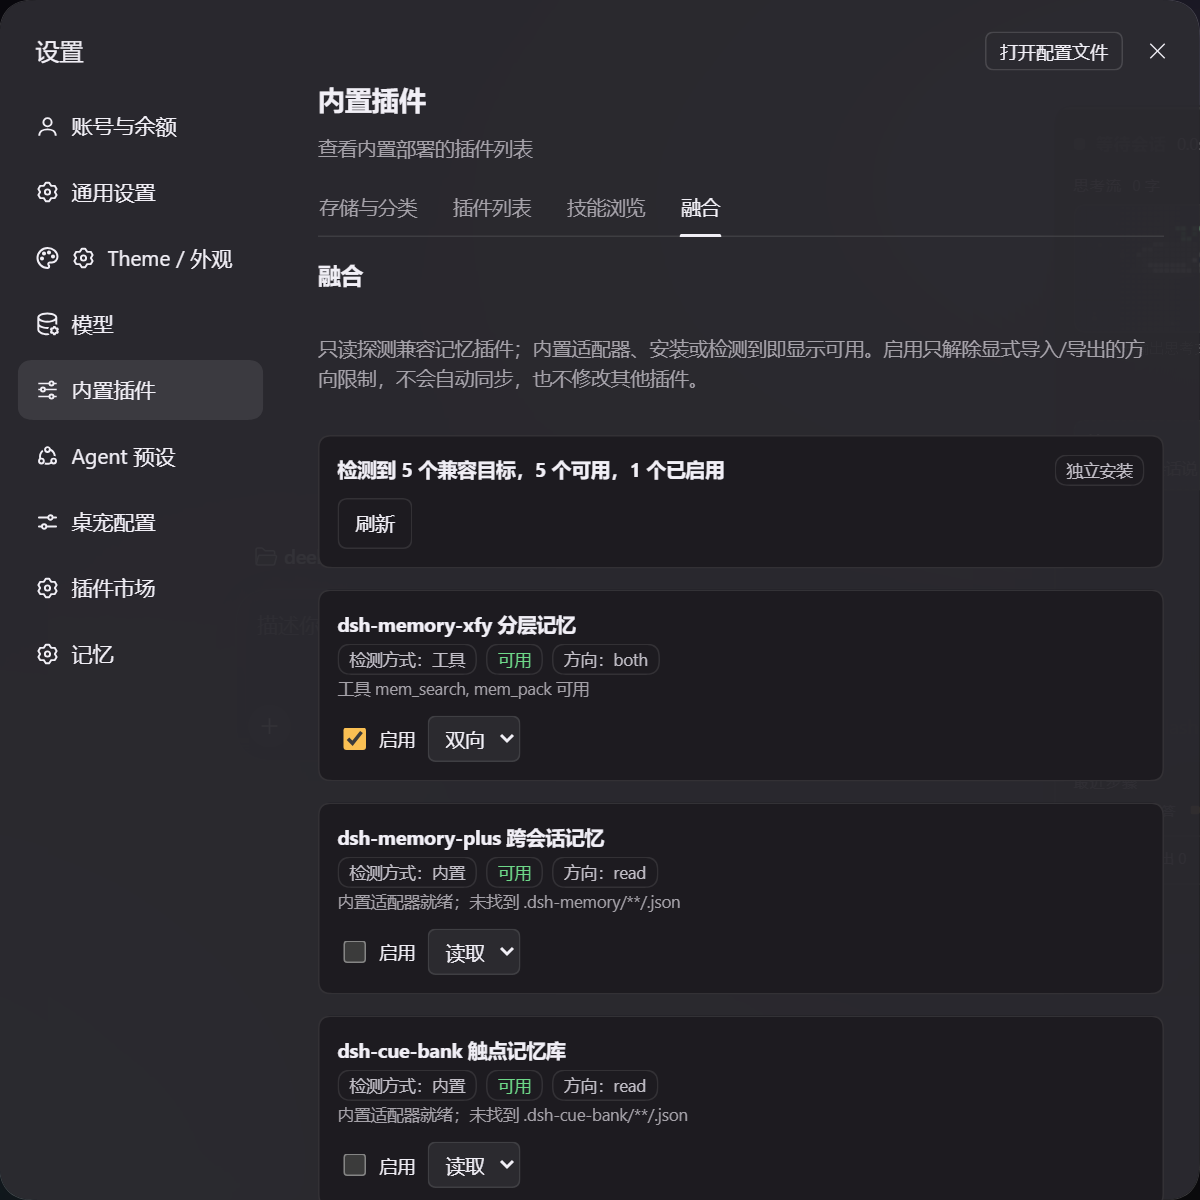
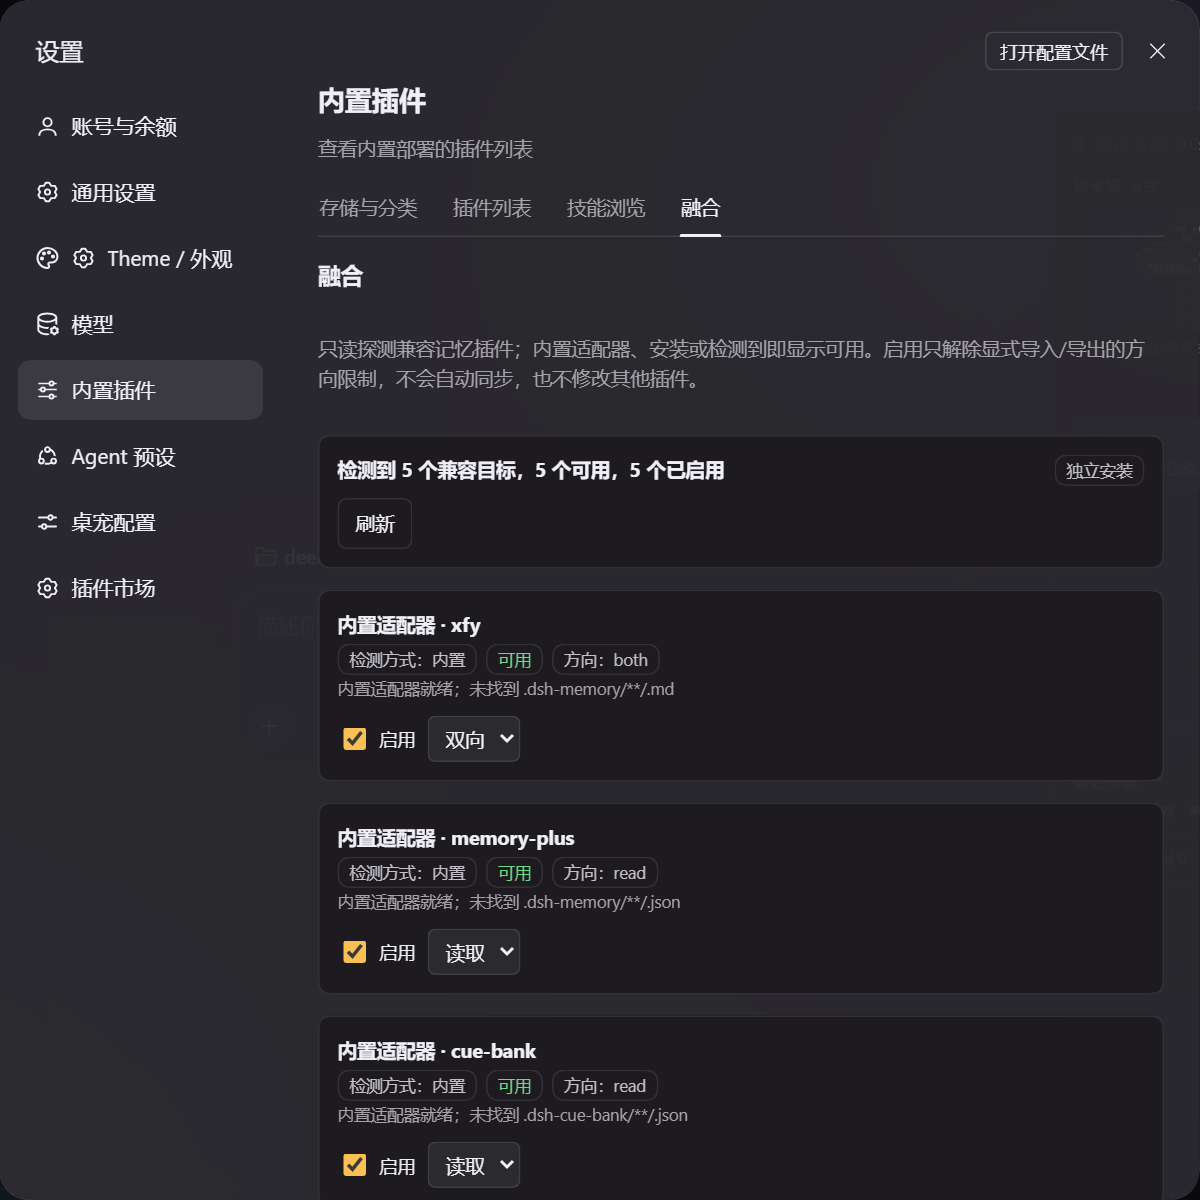
refactor(fusion): use built-in adapters and remove xfy panel
All five compatibility targets now use the built-in adapter labels and do not require the external dsh-memory-xfy bundle. Remove the broken xfy sidebar panel, keep enable/direction control, refresh screenshots, and verify all tests.

diff --git a/lib/fusion.js b/lib/fusion.js
@@ -31,7 +31,7 @@ import { loadMemories, writeMemory } from './store.js';
 export const COMPATIBILITY_REGISTRY = Object.freeze([
   Object.freeze({
     key: 'dsh-memory-xfy',
-    label: 'dsh-memory-xfy 分层记忆',
+    label: '内置适配器 · xfy',
     type: 'memory',
     serviceName: null,
     filePattern: '**/.dsh-memory/**/*.md',
@@ -44,7 +44,7 @@ export const COMPATIBILITY_REGISTRY = Object.freeze([
   }),
   Object.freeze({
     key: 'dsh-memory-plus',
-    label: 'dsh-memory-plus 跨会话记忆',
+    label: '内置适配器 · memory-plus',
     type: 'memory',
     serviceName: null,
     filePattern: '**/.dsh-memory/**/*.json',
@@ -57,7 +57,7 @@ export const COMPATIBILITY_REGISTRY = Object.freeze([
   }),
   Object.freeze({
     key: 'dsh-cue-bank',
-    label: 'dsh-cue-bank 触点记忆库',
+    label: '内置适配器 · cue-bank',
     type: 'memory',
     serviceName: null,
     filePattern: '**/.dsh-cue-bank/**/*.json',
@@ -70,7 +70,7 @@ export const COMPATIBILITY_REGISTRY = Object.freeze([
   }),
   Object.freeze({
     key: 'dsh-task-memory',
-    label: 'dsh-task-memory 任务隔离记忆',
+    label: '内置适配器 · task-memory',
     type: 'memory',
     serviceName: null,
     filePattern: '**/.dsh-task-memory/**/*.md',
@@ -83,7 +83,7 @@ export const COMPATIBILITY_REGISTRY = Object.freeze([
   }),
   Object.freeze({
     key: 'dsh-graphmemory',
-    label: 'dsh-graphmemory 知识图谱记忆',
+    label: '内置适配器 · graphmemory',
     type: 'memory',
     serviceName: null,
     filePattern: '**/.dsh-graphmemory/**/*.json',

diff --git a/docs/USAGE.md b/docs/USAGE.md
@@ -305,7 +305,7 @@ candidate ──verify(valid) +0.15──► verified
 
 | 字段 | 说明 |
 |---|---|
-| 插件名 | 如 `dsh-memory-xfy 分层记忆` |
+| 插件名 | 如 `内置适配器 · xfy` |
 | 检测方式 | 文件 / 服务 / 工具 |
 | 可用状态 | 可用（绿色）/ 不可用（黄色）；内置适配器也显示“可用” |
 | 方向 | 读取 / 写入 / 双向 |
@@ -324,9 +324,11 @@ candidate ──verify(valid) +0.15──► verified
 
 探测优先级：服务 → 已知工具名 → workspace 下的公开文件 → **已安装的包** → **内置适配器**。兼容包已经安装在当前 profile，或该目标带有内置适配器时，即使还没有产生数据，也会显示为可用；你仍需通过“启用”决定是否允许导入/导出。
 
-其中四个文件桥接目标（`dsh-memory-plus`、`dsh-cue-bank`、`dsh-task-memory`、`dsh-graphmemory`）**自带内置适配器**：没有安装外部插件时显示“检测方式：内置”，不会变红。内置适配器只代表格式桥接代码已就绪，**不代替外部插件的数据**；导入仍需要 workspace 中存在匹配文件。
+其中四个文件桥接目标（`dsh-memory-plus`、`dsh-cue-bank`、`dsh-task-memory`、`dsh-graphmemory`）**自带内置适配器**：没有安装外部插件时显示“检测方式：内置”，不会变红。`dsh-memory-xfy` 也保留内置文件适配器作为兜底。内置适配器只代表格式桥接代码已就绪，**不代替外部插件的数据**；导入仍需要 workspace 中存在匹配文件。
 
-#### 方式一：安装并启用兼容插件
+因此，默认情况下**不需要安装任何外部插件**，五个目标都会显示可用；你只需要决定是否启用。只有在需要某插件的原生引擎/数据时，才安装真实插件。
+
+#### 方式一：安装并启用真实插件（可选）
 
 1. 用 `plugin_manager` 安装目标插件，例如 `dsh-memory-xfy`。
 2. 确认它已启用，并且它注册的工具在当前 Agent 中可见。
@@ -334,7 +336,7 @@ candidate ──verify(valid) +0.15──► verified
 
 如果该插件注册了织忆认识的工具名，会显示“检测方式：工具”；如果它在 workspace 写入了记忆文件，会显示“检测方式：文件”。
 
-例如 `dsh-memory-xfy` 注册的是 `mem_search` / `mem_pack`。安装它之后，融合页会显示“检测方式：工具 / 可用”。注意：这表示工具探测成功，不等于它的原生存储文件已经被映射；`dsh-memory-xfy` 的实际数据默认在 `~/.dsh` 下，而织忆的文件桥接目前读取 workspace 的 `.dsh-memory/**/*.md`。要导入其原生数据，需要进一步适配它的存储布局。
+例如安装真实的 `dsh-memory-xfy` 后，融合页会显示“检测方式：工具”。注意：这表示工具探测成功，不等于它的原生存储文件已经被映射；`dsh-memory-xfy` 的实际数据默认在 `~/.dsh` 下，而织忆的文件桥接读取 workspace 的 `.dsh-memory/**/*.md`。要导入其原生数据，需要进一步适配它的存储布局。没有安装真实插件时，内置适配器仍然可用。
 
 不要同时安装多个 memory 类插件：它们都可能注册 `memory_search` 等工具名，容易冲突。一次只装一个、验证通过后再考虑下一个。
 
@@ -414,7 +416,7 @@ type: judgment
 
 | 插件 | 检测方式 | 读取格式 | 导出格式 | 默认方向 |
 |---|---|---|---|---|
-| `dsh-memory-xfy` | 文件 / 工具 | `.dsh-memory/**/*.md` | Markdown | 读取 |
+| `dsh-memory-xfy` | 文件（内置） | `.dsh-memory/**/*.md` | Markdown | 读取 |
 | `dsh-memory-plus` | 文件 | `.dsh-memory/**/*.json` | JSON | 读取 |
 | `dsh-cue-bank` | 文件 | `.dsh-cue-bank/**/*.json` | JSON | 读取 |
 | `dsh-task-memory` | 文件 / 工具 | `.dsh-task-memory/**/*.md` | Markdown | 读取 |

diff --git a/README.md b/README.md
@@ -88,7 +88,7 @@
 | 📈 | **可衡量 Loop** | 没有指标、目标、单位、节奏，就不能创建循环 |
 | 🕸 | **任务网络** | 目标拆成带依赖的任务节点，并自动注入相关反模式警告 |
 | 🖥 | **三个设置标签页** | 存储与分类、技能浏览、融合，全部读写同一份 Host 数据 |
-| 🔌 | **只读融合层** | 兼容其他记忆插件；四个文件目标自带内置适配器，不改配置、不劫持工具、不自动同步 |
+| 🔌 | **只读融合层** | 兼容其他记忆插件；五个目标都带内置适配器，不改配置、不劫持工具、不自动同步 |
 | 🔒 | **本地原子存储** | 独占临时文件 + `rename`；单文件写入原子 |
 | 📦 | **零第三方运行时依赖** | Host 只依赖 DSH SDK 与 Node 内置模块；Client 只用宿主 React |
 
@@ -362,21 +362,22 @@ open(tmp, 'wx', 0o600) → write → close → rename(tmp, target)
 <a id="fusion"></a>
 ## 融合
 
-织忆不 import 其他插件的运行时值，不修改其他插件的配置，不劫持其他插件的工具。融合只通过三种公开机制发生：
+织忆不 import 其他插件的运行时值，不修改其他插件的配置，不劫持其他插件的工具。融合只通过以下公开机制发生：
 
 1. `ctx.get(serviceName)` 可选服务探测；
 2. 工具名探测；
-3. workspace 下公开记忆文件的只读扫描。
+3. workspace 下公开记忆文件的只读扫描；
+4. 当前 profile 的安装态与内置适配器。
 
 ### 兼容矩阵
 
 | 插件 | 检测方式 | 文件/格式 | 默认方向 |
 |---|---|---|---|
-| `dsh-memory-xfy` | 文件 / 工具 | `.dsh-memory/**/*.md` | 读 |
-| `dsh-memory-plus` | 文件 | `.dsh-memory/**/*.json` | 读 |
-| `dsh-cue-bank` | 文件 | `.dsh-cue-bank/**/*.json` | 读 |
-| `dsh-task-memory` | 文件 / 工具 | `.dsh-task-memory/**/*.md` | 读 |
-| `dsh-graphmemory` | 文件 | `.dsh-graphmemory/**/*.json` | 读 |
+| `dsh-memory-xfy` | 文件（内置） | `.dsh-memory/**/*.md` | 读 |
+| `dsh-memory-plus` | 文件（内置） | `.dsh-memory/**/*.json` | 读 |
+| `dsh-cue-bank` | 文件（内置） | `.dsh-cue-bank/**/*.json` | 读 |
+| `dsh-task-memory` | 文件（内置；外部工具可选） | `.dsh-task-memory/**/*.md` | 读 |
+| `dsh-graphmemory` | 文件（内置） | `.dsh-graphmemory/**/*.json` | 读 |
 
 ### 显式导入 / 导出
 

diff --git a/README.en.md b/README.en.md
@@ -88,7 +88,7 @@ Two cross-cutting rules:
 | 📈 | **Measurable Loops** | No metric, target, unit and cadence means no Loop |
 | 🕸 | **Task networks** | Goals become dependency-aware task nodes with anti-pattern warnings |
 | 🖥 | **Three settings tabs** | Storage & categories, memories, fusion — one Host data source |
-| 🔌 | **Read-only fusion** | Works with other memory plugins; four file targets ship built-in adapters, without editing config, hijacking tools, or auto-syncing |
+| 🔌 | **Read-only fusion** | Works with other memory plugins; all five targets ship built-in adapters, without editing config, hijacking tools, or auto-syncing |
 | 🔒 | **Atomic local storage** | Exclusive temp file + `rename`; single-file writes are atomic |
 | 📦 | **No third-party runtime deps** | Host uses DSH SDK + Node built-ins; Client uses host React only |
 
@@ -354,17 +354,18 @@ Memweave never imports another plugin's runtime values, edits another plugin's c
 
 1. optional `ctx.get(serviceName)` probes;
 2. tool-name probes;
-3. read-only scans of public memory files under the workspace.
+3. read-only scans of public memory files under the workspace;
+4. active-profile install state and built-in adapters.
 
 ### Compatibility matrix
 
 | Plugin | Detection | File / format | Default direction |
 |---|---|---|---|
-| `dsh-memory-xfy` | file / tool | `.dsh-memory/**/*.md` | read |
-| `dsh-memory-plus` | file | `.dsh-memory/**/*.json` | read |
-| `dsh-cue-bank` | file | `.dsh-cue-bank/**/*.json` | read |
-| `dsh-task-memory` | file / tool | `.dsh-task-memory/**/*.md` | read |
-| `dsh-graphmemory` | file | `.dsh-graphmemory/**/*.json` | read |
+| `dsh-memory-xfy` | file (built-in) | `.dsh-memory/**/*.md` | read |
+| `dsh-memory-plus` | file (built-in) | `.dsh-memory/**/*.json` | read |
+| `dsh-cue-bank` | file (built-in) | `.dsh-cue-bank/**/*.json` | read |
+| `dsh-task-memory` | file (built-in; external tool optional) | `.dsh-task-memory/**/*.md` | read |
+| `dsh-graphmemory` | file (built-in) | `.dsh-graphmemory/**/*.json` | read |
 
 ### Explicit import / export
 

diff --git a/CHANGELOG.md b/CHANGELOG.md
@@ -14,6 +14,7 @@ The format follows [Keep a Changelog](https://keepachangelog.com/en/1.1.0/), and
 - Fusion tool probes now recognize the real `mem_search` / `mem_pack` tools of `dsh-memory-xfy`, and the unique `memory_*` tools of `dsh-task-memory`.
 - Fusion reports a compatible package installed in the active profile as available even before data/tools are found; the summary shows available and enabled counts, and uninstalled targets cannot be newly enabled.
 - File-bridge compatibility targets ship built-in adapters, so all five targets remain usable without an external package; data is still only imported when matching files exist.
+- Fusion targets are now presented as built-in adapters. The external `dsh-memory-xfy` demo bundle was removed so its broken sidebar panel no longer loads; the built-in xfy adapter remains available.
 
 ### Planned
 - Task-network update tool (`memweave_network_update`).

diff --git a/docs/FUSION-MAINTENANCE.md b/docs/FUSION-MAINTENANCE.md
@@ -53,7 +53,7 @@
 
 | key | 探测面 | 备注 |
 |---|---|---|
-| `dsh-memory-xfy` | 工具 `mem_search` / `mem_pack`；安装态 | 原生数据在 `~/.dsh`，文件桥接暂未映射 |
+| `dsh-memory-xfy` | 文件 `.dsh-memory/**/*.md`；**内置适配器** | 无外部插件也可用；原生数据在 `~/.dsh`，文件桥接暂未映射 |
 | `dsh-memory-plus` | 文件 `.dsh-memory/**/*.json`；**内置适配器** | 无外部插件也可用；数据仍需匹配文件 |
 | `dsh-cue-bank` | 文件 `.dsh-cue-bank/**/*.json`；**内置适配器** | 无外部插件也可用；数据仍需匹配文件 |
 | `dsh-task-memory` | 工具 `memory_*`；文件 `.dsh-task-memory/**/*.md`；**内置适配器** | 原生数据在 `~/.dsh/storages/task-memory/` |
